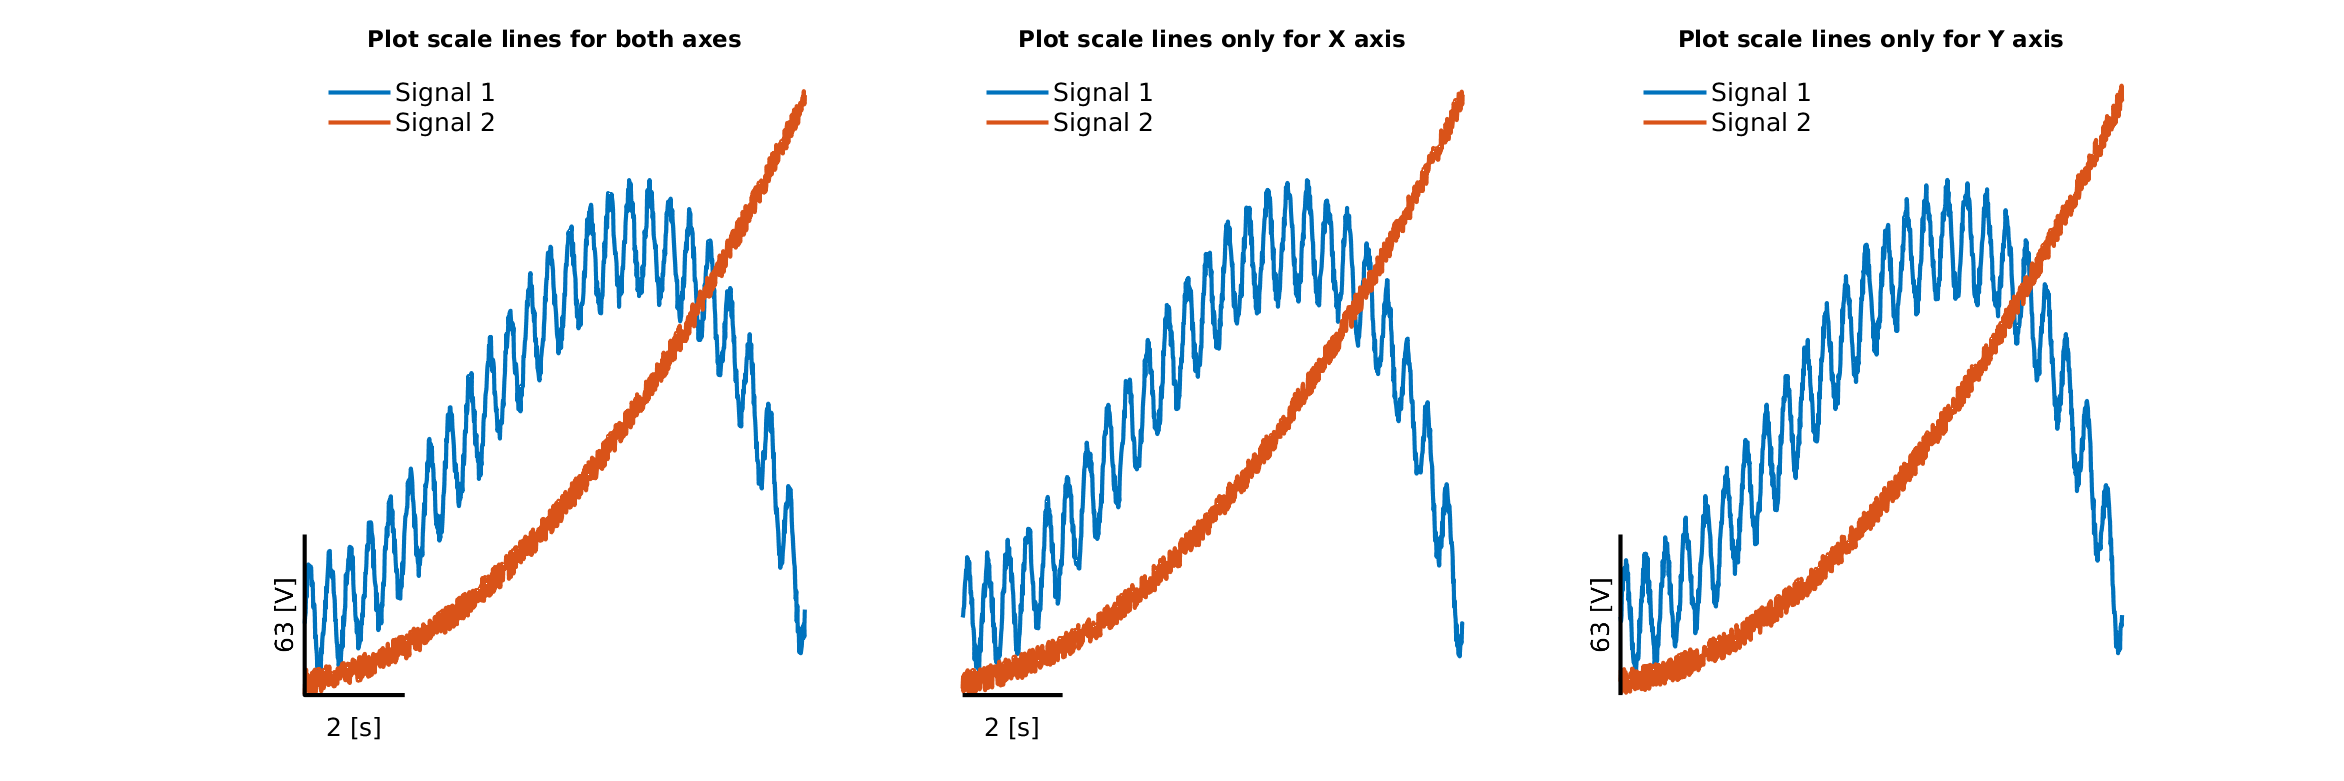
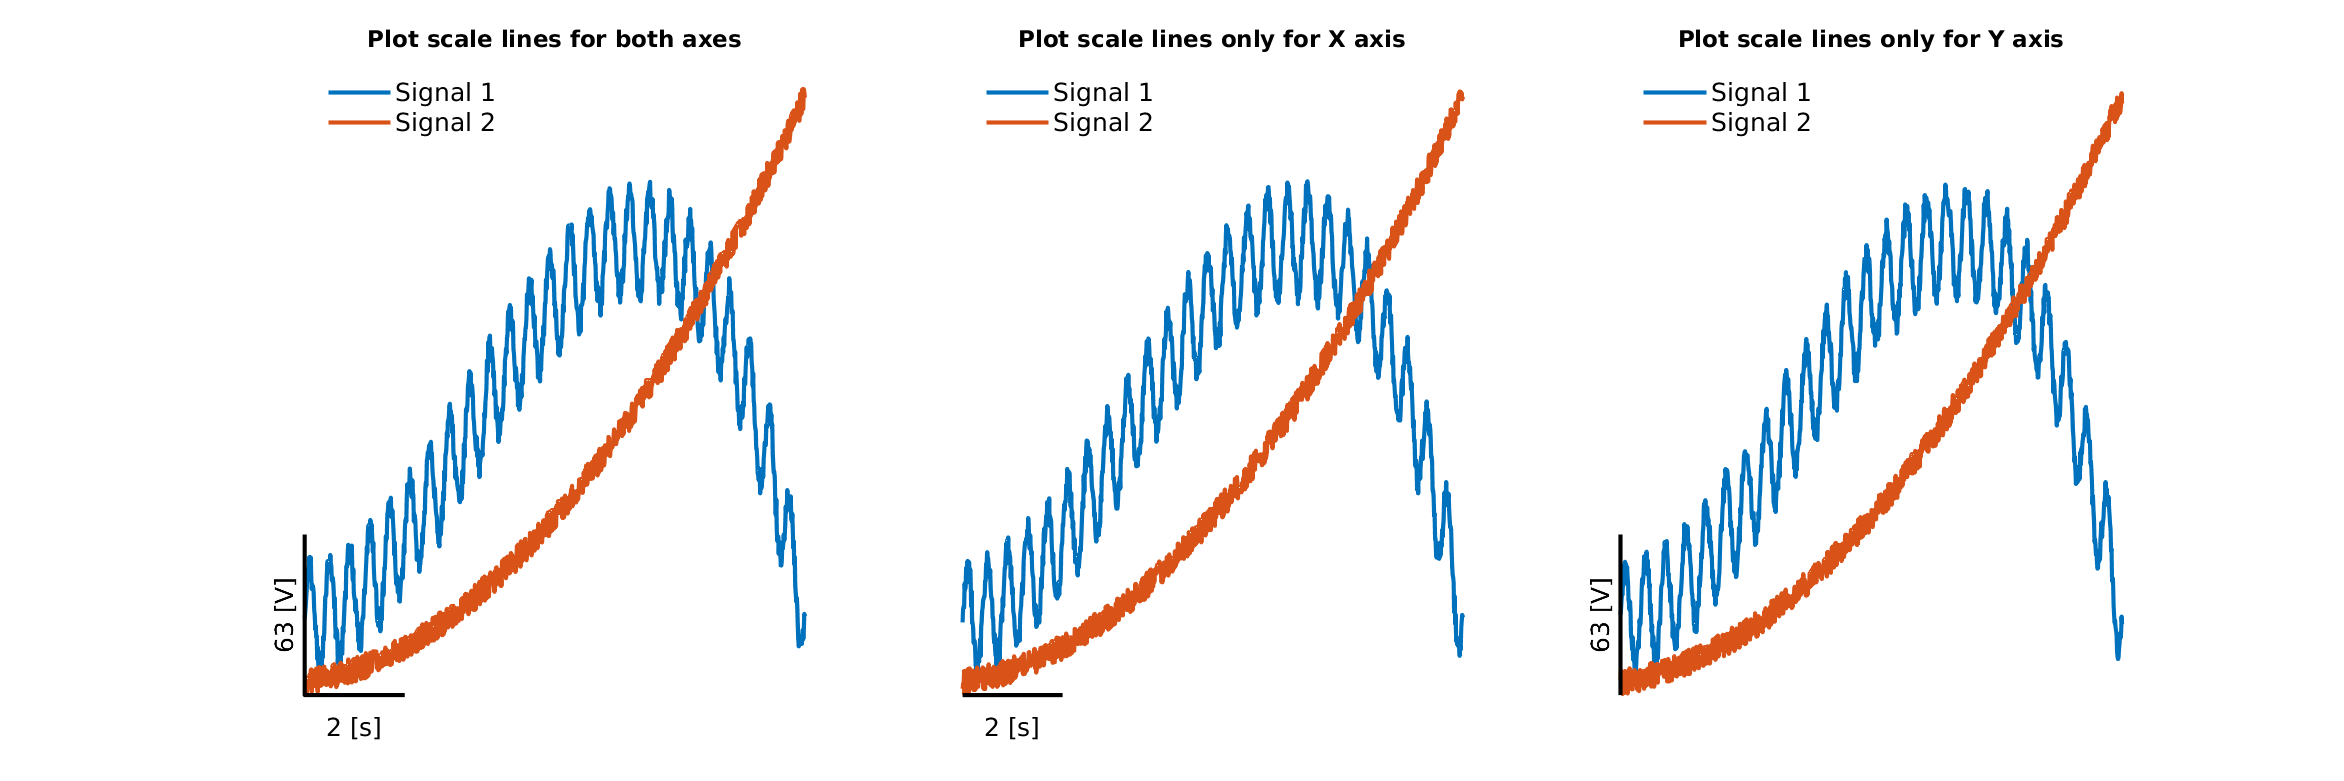
Old implementation was causing x and y axes labels to appearafter function execution. Fixed.

diff --git a/plotAxesScaleBars.m b/plotAxesScaleBars.m
@@ -39,8 +39,10 @@ assert(ismember(whattoplot, ["xonly" "yonly" "bothaxes"]),...
 
 % remove current axes
 hold on
-set(gca,'visible','off')
-set(findall(gca, 'type', 'text'), 'visible', 'on')
+ax = gca;
+ax.Visible = 'off';
+ax.Title.Visible = 'on';
+
 % plot both x and y axes scale bars
 if whattoplot == "bothaxes"
     h = plot([origincoords(1)+xscale origincoords(1) origincoords(1)],...
